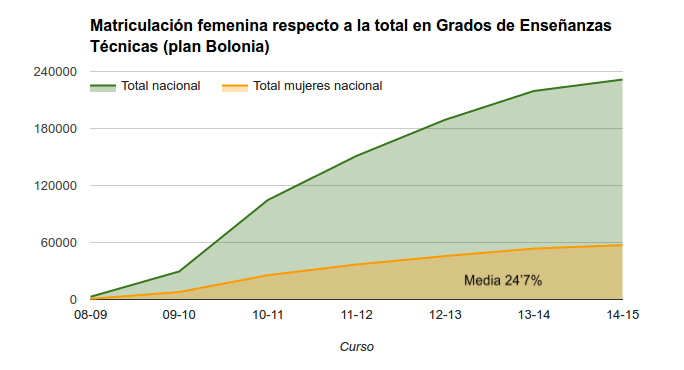
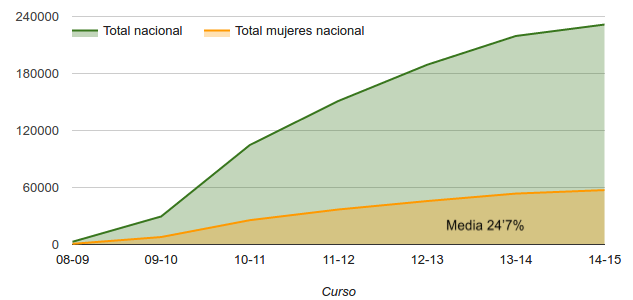
Añadiendo factores y costándome mucho recortar

diff --git a/eleccion_grado.tex b/eleccion_grado.tex
@@ -34,7 +34,7 @@
 \begin{abstract}
 Ante la tendencia decreciente de la matriculación de mujeres en las ingenierías, y a la necesidad no cubierta desde Europa de incorporación de ingenieros e ingenieras al mundo laboral, se plantea un problema a resolver, que es cómo hacer las ingenierías más atractivas para los y las adolecentes.
 Se debe hacer esta distinción entre chicos y chicas puesto que los factores por los que finalmente no estudian una ingeniería son distintos. Esto quiere decir que a ambos sexos les afecta una serie de factores derivados del entorno, de su percepción hacia ellos mismos y hacia los diversos aspectos de las ingenierías, pero que además el hecho de que existan una serie de estereotipos afecta a las chicas por separado.
-En este Trabajo Fin de Máster se presenta un análisis de los factores de influencia, y en profundidad de los factores de género, que afectan a la decisión de escoger una carrera, en este caso particularizando en las ingenierías.
+En este artículo se presenta un análisis de los factores de influencia, y en profundidad de los factores de género, que afectan a la decisión de escoger una carrera, en este caso particularizando en las ingenierías.
 Además, se ha observado e identificado la influencia de dichos factores en un contexto de centro secundaria en Granada, en el que se han realizado una serie de encuestas a alumnos de Educación Secundaria Obligatoria, Bachillerato, y Ciclos Formativos relacionados con la Tecnología y la Informática.
 
 \keywords{...}
@@ -50,11 +50,11 @@ Ante la creciente necesidad de ingenieros e ingenieras en Europa \cite{gago2004e
 \begin{figure}[ht]
         \centering
         \subfigure[\scriptsize{Ingenierías del plan antiguo, entre las que se incluyen Ingeniería Informática e Ingeniería de Telecomunicaciones. \textit{(*) Datos no disponibles en \cite{datos::uni}.}}]{
-                \includegraphics[width=0.8\textwidth,keepaspectratio]{Bitmap/ing_total.png}
+                \includegraphics[width=0.75\textwidth,keepaspectratio]{Bitmap/ing_total.png}
                 \label{fig:ing_total}
         }
         \subfigure[\scriptsize{Grados de Ingenierías o Enseñanzas Técnicas.}]{
-                \includegraphics[width=0.8\textwidth,keepaspectratio]{Bitmap/grado_total.png}
+                \includegraphics[width=0.75\textwidth,keepaspectratio]{Bitmap/grado_total.png}
                 \label{fig:grado_total}
         }
         \caption{{\footnotesize Evolución de la matriculación de mujeres en Enseñanzas Técnicas en Universidades tanto públicas como privadas. Fuente de datos: \cite{datos::uni}.}}\label{fig:datos_total}
@@ -64,6 +64,27 @@ El propósito de este artículo es el de clarificar si los factores encontrados 
 
 \section{Factores de influencia identificados en la literatura}
 \label{sec:factores}
+
+A la hora de identificar los factores que tienen influencia sobre los adolescentes para escoger carreras de ingeniería, no sólo nos interesa estudiar la literatura por los factores que influyen en general, sino también en función del sexo. De un estudio realizado en la Comunidad Autónoma de Cataluña \cite{everis2012}, realizado a alumnos de 3º y 4º de E.S.O. y de Bachillerato, se pueden extraer varias conclusiones. A modo general, es decir, sin tener en cuenta el sexo del alumno que responde a las encuestas, se han encontrado con que:
+
+\begin{itemize}
+  \item Los estudiantes que van mejor en asignaturas relacionadas con la tecnología, como Matemáticas, Física, Tecnología e Informática, tienden a continuar la rama tecnológica y tienen más probabilidad de querer estudiar una ingeniería. Por contra, los que van peor suelen escoger otras ramas u otras carreras universitarias.
+  \item Por lo general, menos del 33\% de los alumnos de la rama de ciencias tienen claro que quieren estudiar una ingeniería.
+  \item Tanto en la E.S.O. como en Bachillerato, los alumnos escogen o no una ingeniería en función de si se ven capaces para estudiarla. Este hecho se acentúa en las chicas, quienes en general se infravaloran más y tienden a creer que más que porque sea difícil, es porque ellas no se sienten capaces.
+  \item El interés por las nuevas tecnologías no es determinante en la elección de ingenierías por parte de los alumnos y alumnas. También, aunque en menos medida que la capacidad, influyen de manera directamente proporcional la percepción, positiva o negativa, que tienen sobre las salidas profesionales que tienen o el prestigio que tienen los ingenieros.
+\end{itemize}
+
+Dentro de los resultados cabe destacar que, aunque no se observen estereotipos del tipo ``friki'', sí que es notable la visión sexista que se tiene de estas carreras. Así, hasta un 60\% de los encuestados totales ve las ingenierías como ``para hombres'', mientras que solo un 42\% las considera también ``para mujeres''. De hecho, cuando se les pregunta directamente por su sexo, en el informe se distingue entre E.S.O. y Bachillerato aunque los resultados muy similares. En la E.S.O., dentro del 33\% total que dice que va a estudiar un Bachillerato de ciencias, hay una diferencia del 14\% entre chicas y chicos al escoger estudios relacionados con las carreras tecnológicas. El nivel sociocultural acentúa aún más esta situación, observándose en el estudio hasta un 31\% de diferencia entre chicos de nivel socioeconómico alto y chicas de nivel socioeconómico bajo en la elección de estudios relacionados con las carreras tecnológicas. En el caso de Bachillerato, el 27\% de los encuestados asegura que va a continuar estudiando una ingeniería, aumentándose la diferencia entre chicas y chicos a un 31\%.
+
+A la luz de estos resultados, es de interés estudiar más a fondo los factores que influencian, en particular, al colectivo femenino en la decisión de estudiar ingenierías. Para ello, se analiza el informe aportado en el proyecto ``Mind the Gap'', que será descrito de manera más extensa en el Capítulo \ref{sec:EdA}. En este informe \cite{mtg2015} se comparan tres informes previos sobre la situación de la mujer en la tecnología y en las carreras de ingeniería en los países de Holanda, Reino Unido y España.
+
+Hay varios puntos en común entre los tres países, entre ellos que el entorno de las chicas es uno de los factores más influyentes, sobre todo la familia. Referido a este factor, no es solamente la opinión de la familia de las chicas la que influye a la hora de que escojan una carrera, sino el hecho de la concepción de la familia, observándose entre las entrevistadas que la percepción de un trabajo de muchas horas concilia poco ``con sus tareas familiares''.
+
+Otro factor en común entre los tres países es la poca confianza que las chicas tienen en sí mismas en cuanto a enseñanzas técnicas se refiere, que encima se ve minada por la alta presencia de hombres en carreras STEM, no ayudando a que este entorno sea cómodo para ellas. Los profesores representan otro factor importante, ya que no saben cómo actuar ante la situación que se describe a pesar de que admiten que existe. Sin embargo, las autoras han observado predisposición por parte de éstos a recibir formación y nuevas metodologías para afrontar el problema en las aulas. Para finalizar los factores en común, cabe destacar que en los tres países se está de acuerdo con la necesidad de emprender acciones y organizar actividades específicas para promover las STEM entre las chicas.
+
+Los resultados del informe del proyecto ``Mind the Gap'', que es el que se ha detallado aquí por ser el más reciente, se repiten en la mayoría de los encontrados en la literatura. Por citar algunos, en \cite{hill2010so} la AAUW\footnote{Asociación Americana de Mujeres Universitarias, o en inglés \textit{American Association of University Women}} investigó las razones de por qué hay tan pocas mujeres en las carreras o profesiones STEM, llegando a la conclusión de que las principales razones serían: la antigua creencia de que los chicos son mejores en matemáticas que las chicas, cuando este hecho se ha probado erróneo en la actualidad; el supuesto poco interés de las chicas por las STEM; y en el ámbito de empresas STEM, la conciliación familiar. 
+
+Por último, mencionar un estudio de 2013 \cite{hazari2013factors} del que además se han incluído algunas preguntas en las encuestas realizadas y descritas en el Capítulo \ref{sec:metodologia}. En este estudio los autores pretenden demostrar cómo afectan realmente distintos factores, siendo el único influyente el discutir la poca representación femenina en la ciencia en clase.
 
 \section{Estado del Arte}
 \label{sec:EdA}
